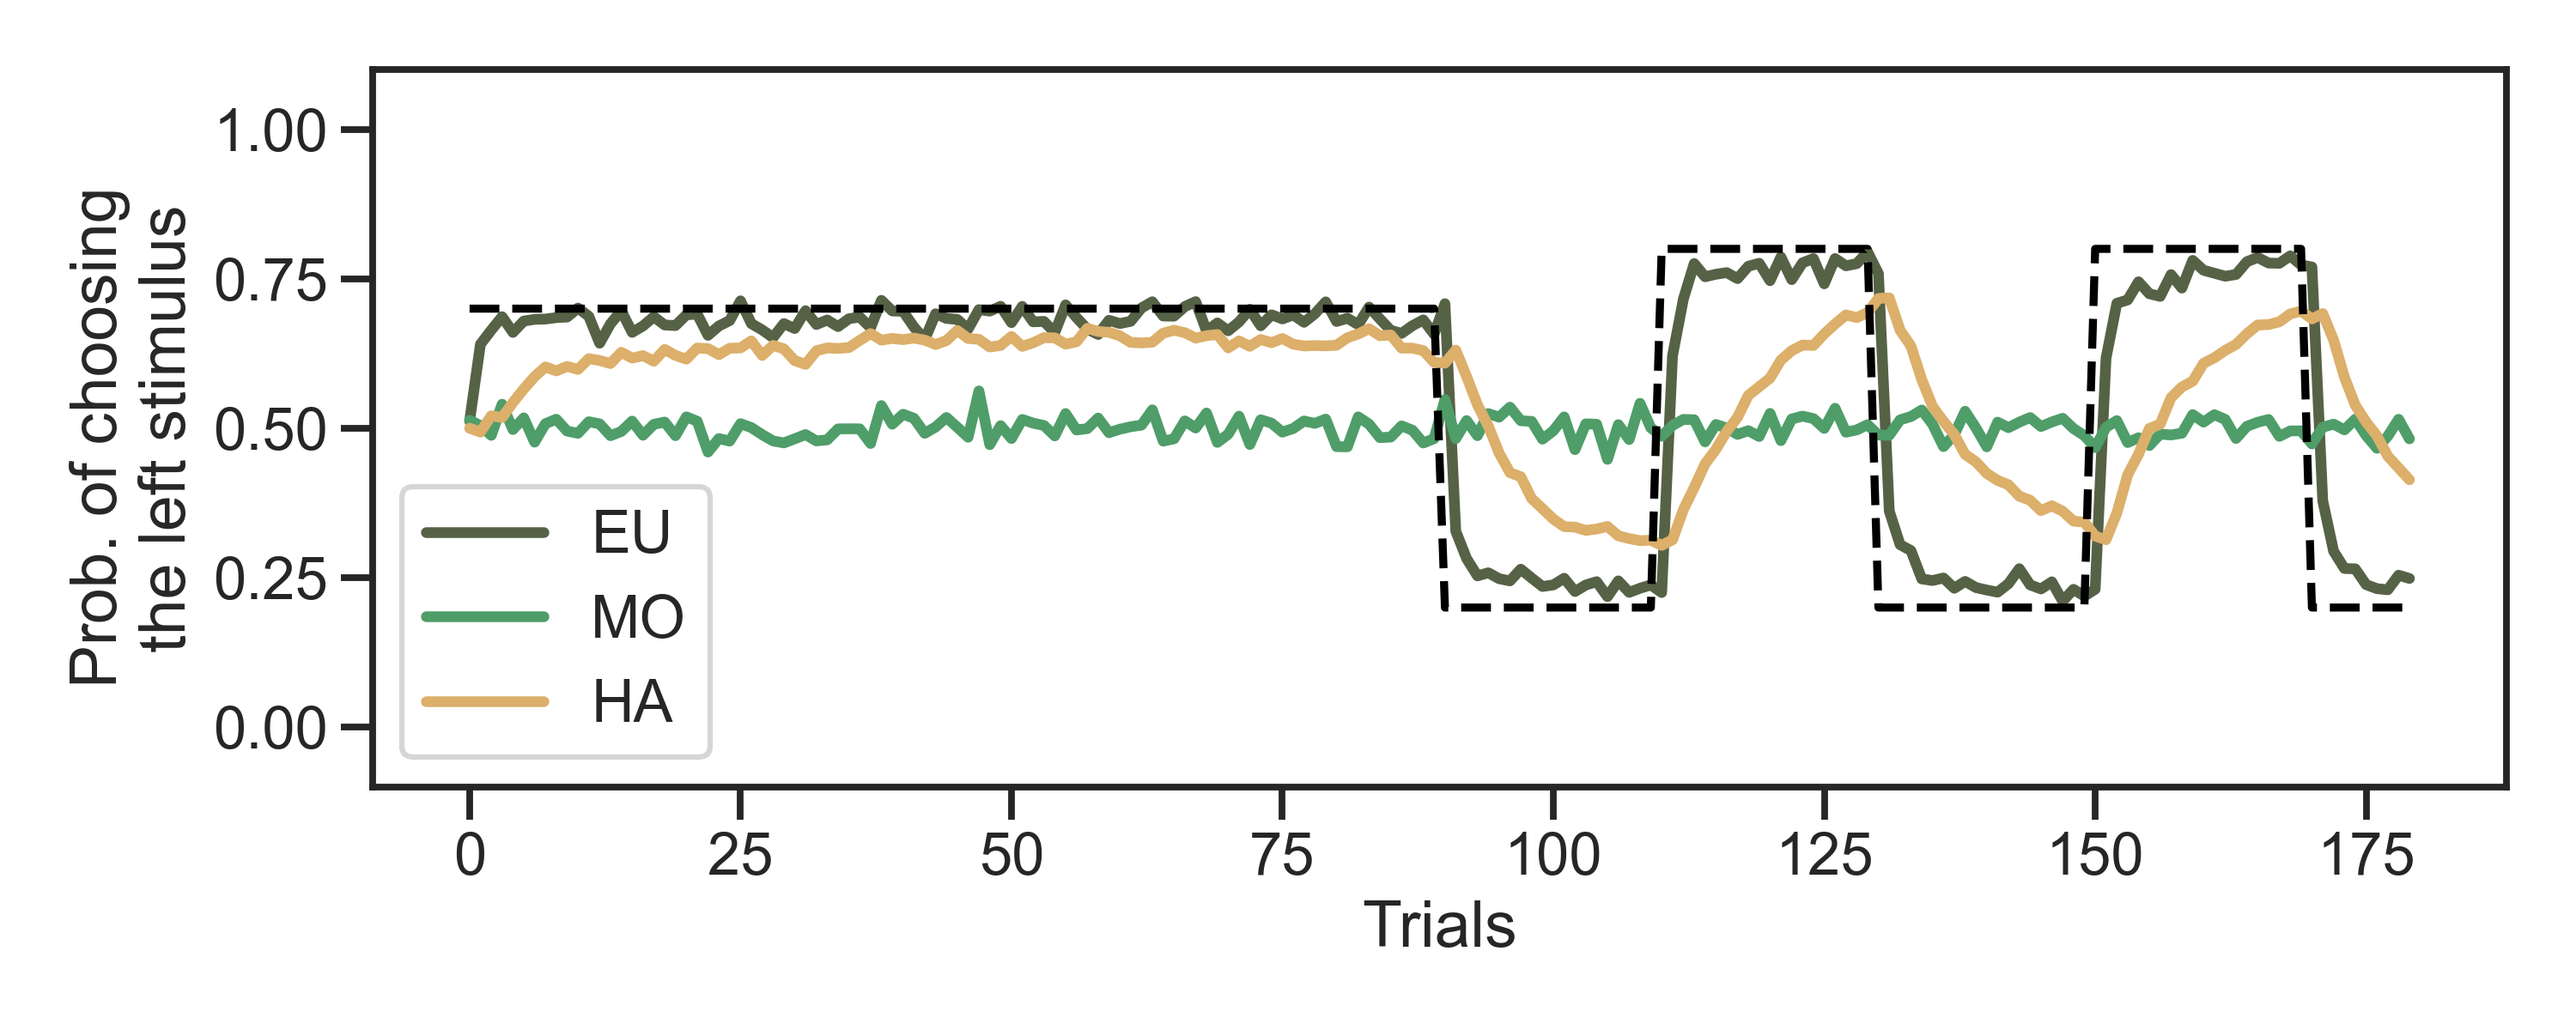
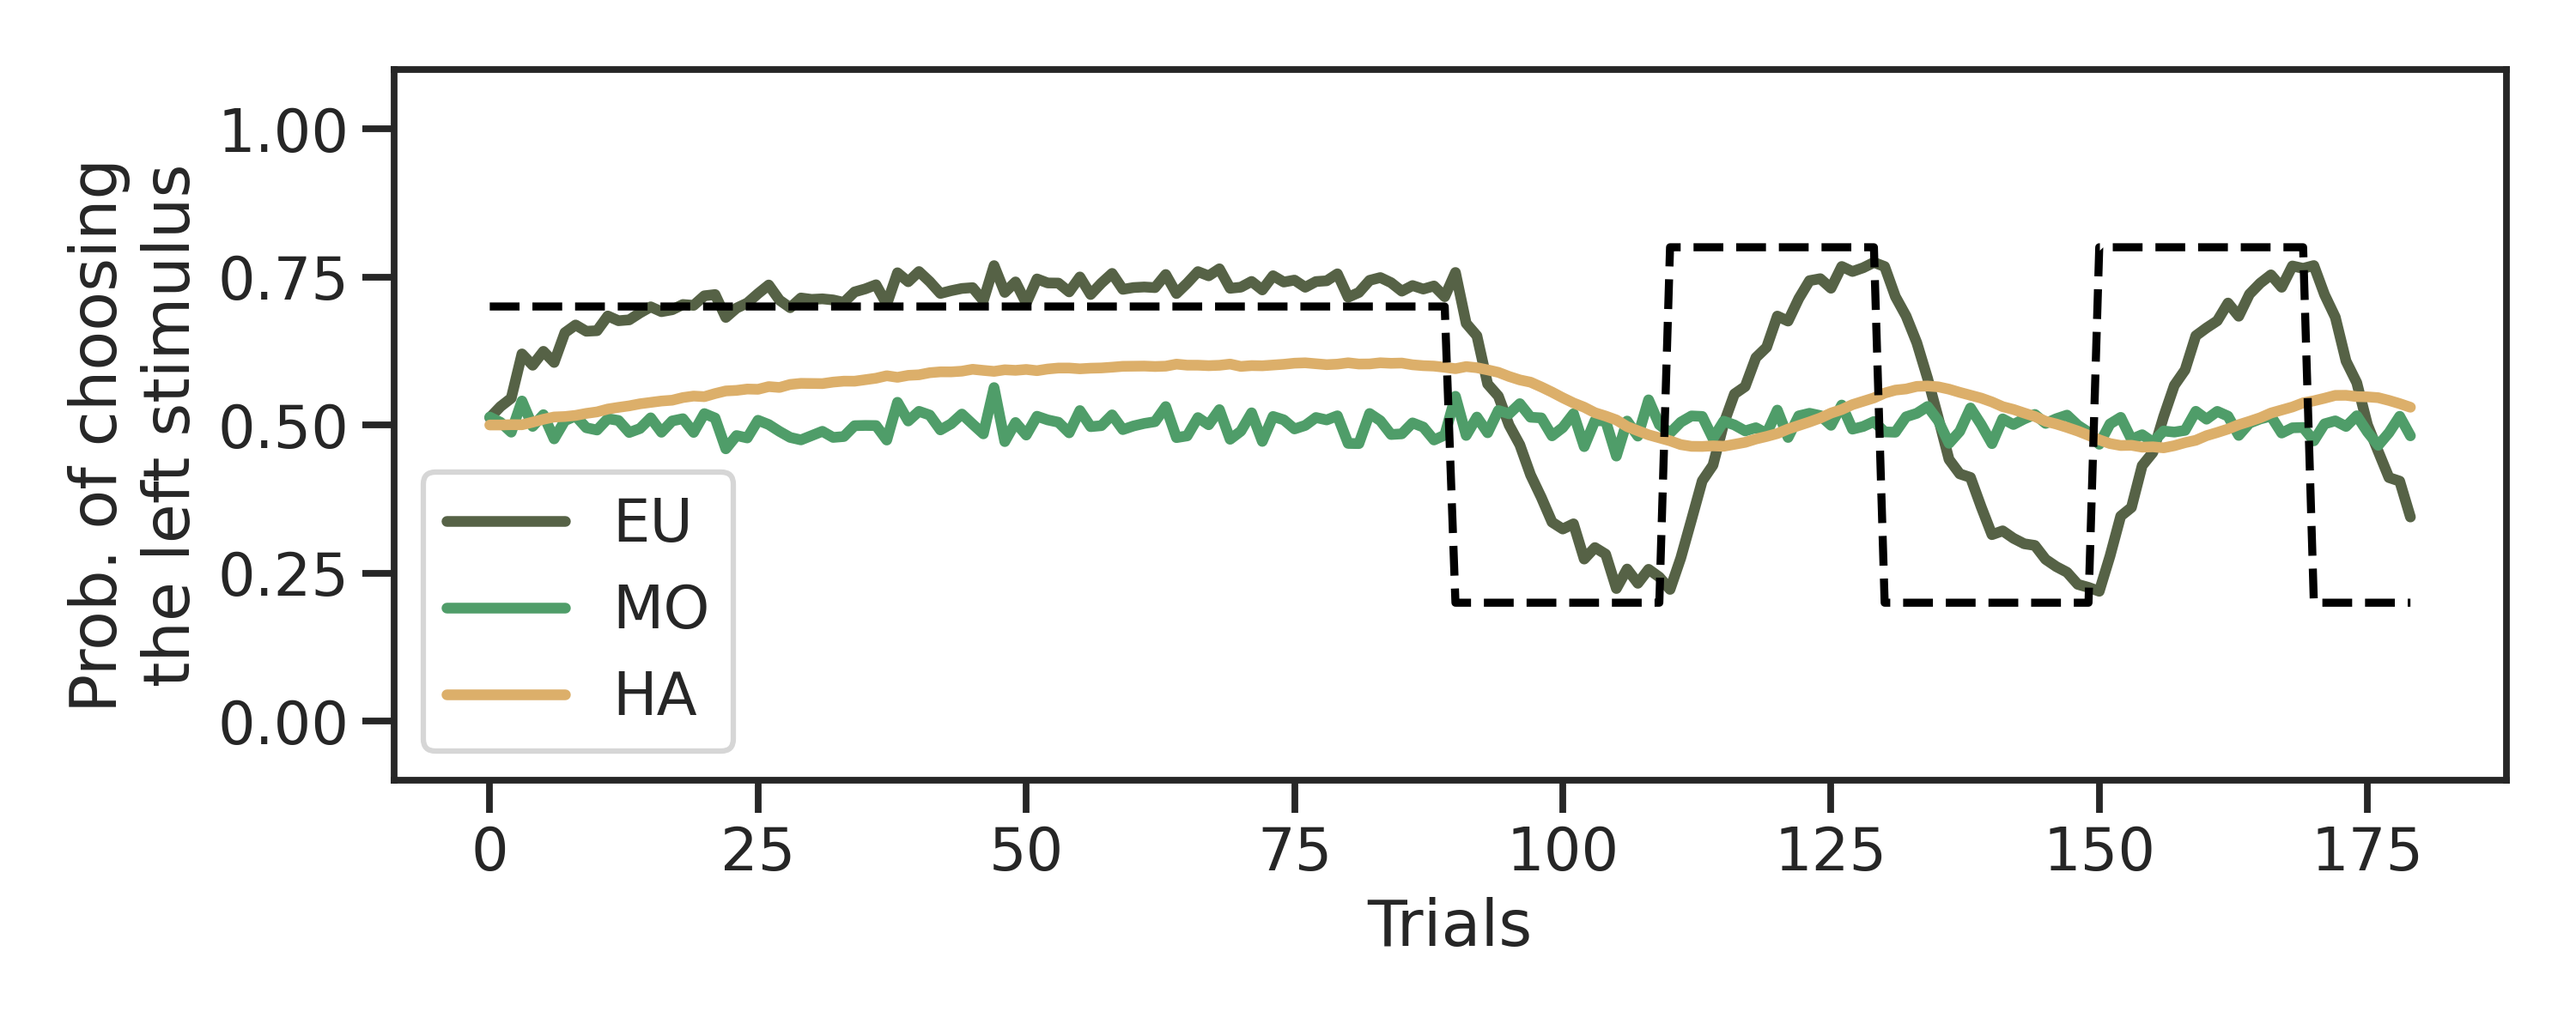
update figure

diff --git a/m2_simulate.py b/m2_simulate.py
@@ -128,14 +128,16 @@ def sim_subj(mode, seed, n_samples=3):
     # decide what to collect
     subj   = model(MixPol)
     if mode == 'HC':
-        sub_id = 'cb3'
+        ls = [0.678336, -0.976054, 0.297795]
     elif mode == 'PAT':
-        sub_id = 'cb25'
+        ls = [0.007705, 0.315989, -0.323734]
     n_params = 18
-    fname    = f'{path}/fits/{args.data_set}/MixPol/params-{args.data_set}-{sub_id}-map.csv'      
+    fname    = f'{path}/fits/{args.data_set}/params-{args.data_set}-{args.agent_name}-map-ind.csv'      
     params   = pd.read_csv(fname, index_col=0).iloc[0, 0:n_params].values
-    params[:3] = [3.9758, 9.5894, 4]
-    params[10:14] = params[2:6]
+    params[3:6]   = ls
+    params[7:10]  = ls
+    params[11:14] = ls
+    params[15:18] = ls 
         
     rng    = np.random.RandomState(seed)
     
@@ -177,7 +179,7 @@ if __name__ == '__main__':
     with open(fname, 'rb') as handle: data=pickle.load(handle)
 
     # STEP 2: SYNTHESIZE DATA
-    sim_paral(pool, data, args)
+    #sim_paral(pool, data, args)
 
     # STEP 3: SIM SUBJECT
     sim_subj_paral(pool, 'HC', args)

diff --git a/m3_visualize.py b/m3_visualize.py
@@ -347,8 +347,8 @@ if __name__ == '__main__':
     #PrefxGroup(pivot_table)
     #PrefxSyndrome(pivot_table)
     #PrefxEnv(pivot_table)
-    LRxEnv(pivot_table)
-    LRxGroup(pivot_table)
+    #LRxEnv(pivot_table)
+    #LRxGroup(pivot_table)
     #PrefdiffxGroup(pivot_table)
-    #Stategy_Ada()
-    #Pi_Ada()
+    Stategy_Ada()
+    Pi_Ada()
